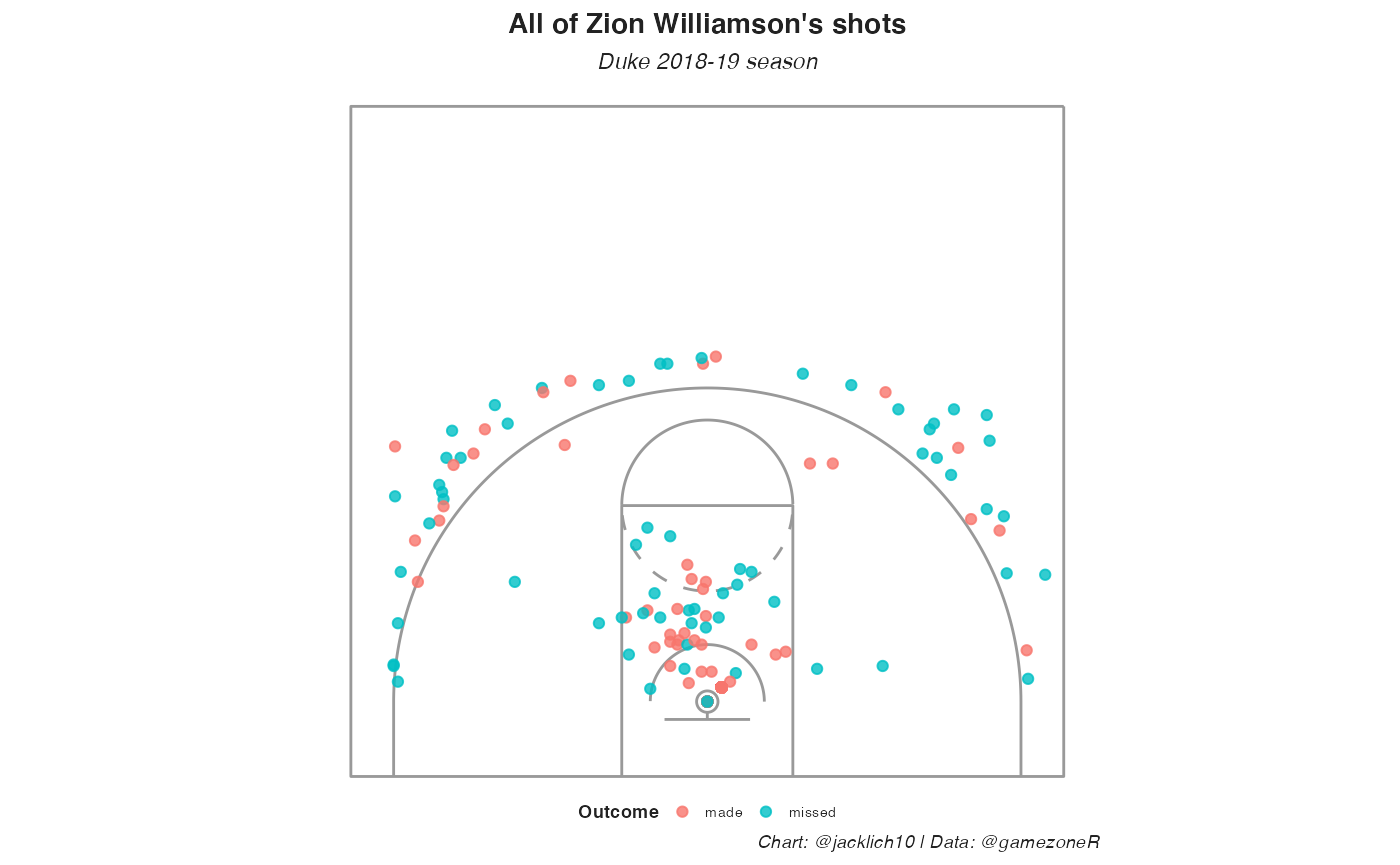
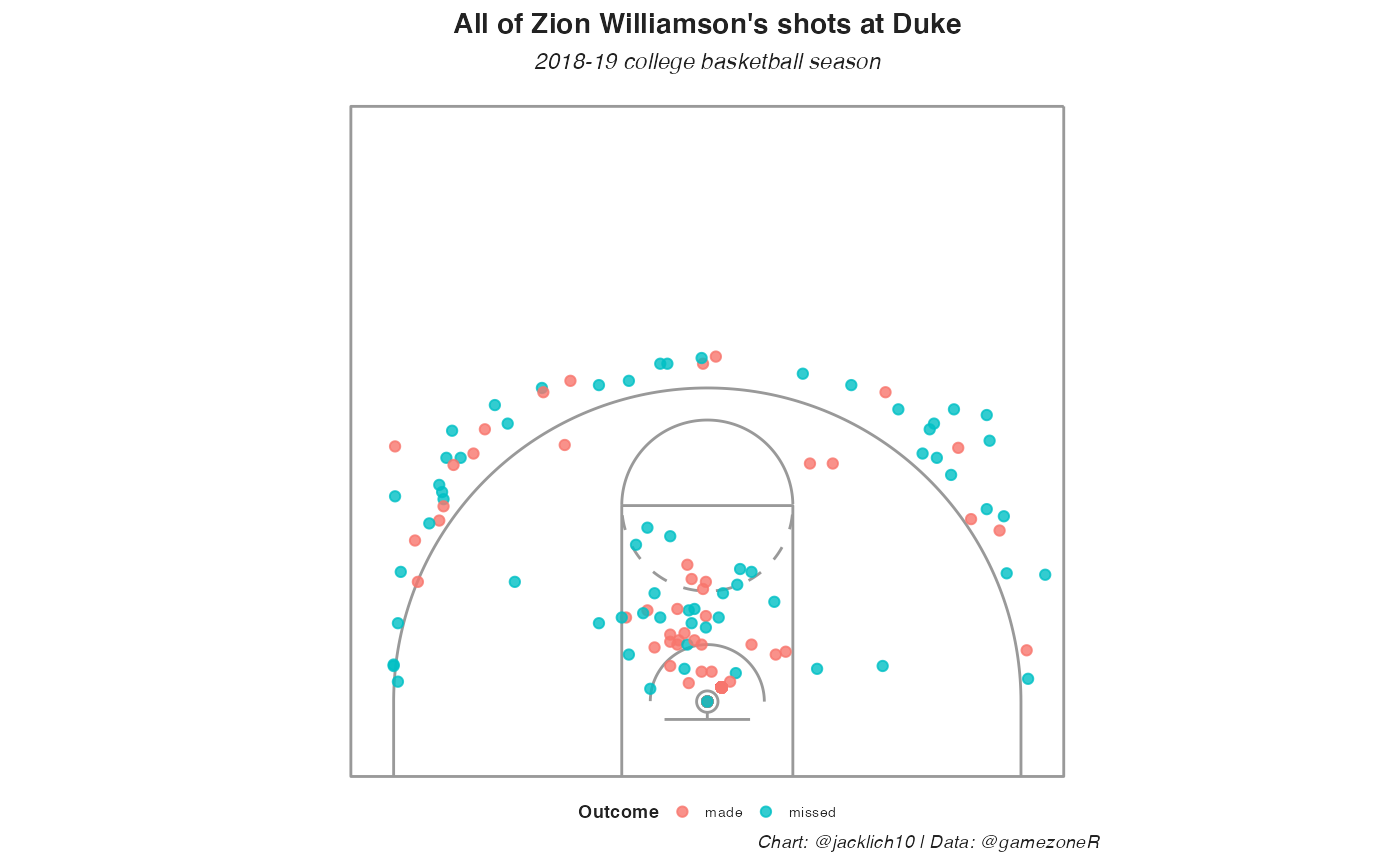
updated vignette

Changed region(s): [[0.3071, 0.0, 0.6757, 0.0936]]

diff --git a/docs/articles/intro-to-gamezoneR.html b/docs/articles/intro-to-gamezoneR.html
@@ -95,104 +95,75 @@
 <a href="#import-libraries" class="anchor"></a>Import libraries</h3>
 <div class="sourceCode" id="cb1"><pre class="downlit sourceCode r">
 <code class="sourceCode R"><span class="kw"><a href="https://rdrr.io/r/base/library.html">library</a></span><span class="op">(</span><span class="va"><a href="https://dplyr.tidyverse.org">dplyr</a></span><span class="op">)</span></code></pre></div>
-<pre><code>## 
-## Attaching package: 'dplyr'</code></pre>
-<pre><code>## The following objects are masked from 'package:stats':
-## 
-##     filter, lag</code></pre>
-<pre><code>## The following objects are masked from 'package:base':
-## 
-##     intersect, setdiff, setequal, union</code></pre>
 </div>
 <div id="scraping-schedules" class="section level3">
 <h3 class="hasAnchor">
 <a href="#scraping-schedules" class="anchor"></a>Scraping schedules</h3>
-<p>There are two functions to scrape schedules: - <code><a href="../reference/get_master_schedule.html">gamezoneR::get_master_schedule()</a></code> - <code><a href="../reference/get_team_schedule.html">gamezoneR::get_team_schedule()</a></code></p>
+<p>There are two functions to scrape schedules:</p>
+<ul>
+<li><code><a href="../reference/get_master_schedule.html">gamezoneR::get_master_schedule()</a></code></li>
+<li><code><a href="../reference/get_team_schedule.html">gamezoneR::get_team_schedule()</a></code></li>
+</ul>
 <p>The <code><a href="../reference/get_master_schedule.html">gamezoneR::get_master_schedule()</a></code> function has a parameter for <code>ranked_games</code>, which is a logical argument specifying whether or not to scrape only the games on that date where at least one team is ranked in the AP top 25 poll. Turning this off will scrape all <em>completed</em> games from the inputted date, regardless of whether a team is ranked or not.</p>
 <p>Please note that specifying <code>ranked_games = T</code> increases the speed of the function because it utilizes the underlying API, while <code>ranked_games = F</code> does not.</p>
-<div class="sourceCode" id="cb5"><pre class="downlit sourceCode r">
+<div class="sourceCode" id="cb2"><pre class="downlit sourceCode r">
 <code class="sourceCode R"><span class="co"># first, the ranked games for a given date</span>
 <span class="va">schedule</span> <span class="op">&lt;-</span> <span class="fu">gamezoneR</span><span class="fu">::</span><span class="fu"><a href="../reference/get_master_schedule.html">get_master_schedule</a></span><span class="op">(</span>date <span class="op">=</span> <span class="st">"2021-03-10"</span>, ranked_games <span class="op">=</span> <span class="cn">T</span><span class="op">)</span></code></pre></div>
 <pre><code>## ℹ Scraping ranked games master schedule for: 2021-03-10</code></pre>
-<div class="sourceCode" id="cb7"><pre class="downlit sourceCode r">
-<code class="sourceCode R"><span class="fu">dplyr</span><span class="fu">::</span><span class="fu"><a href="https://pillar.r-lib.org/reference/glimpse.html">glimpse</a></span><span class="op">(</span><span class="va">schedule</span><span class="op">)</span></code></pre></div>
-<pre><code>## Rows: 1
-## Columns: 19
-## $ date_time       &lt;chr&gt; "9:30 PM ET | Mar 10, 2021"
-## $ game_id         &lt;chr&gt; "2317212"
-## $ tv              &lt;chr&gt; "ESPN"
-## $ home_abbr       &lt;chr&gt; "Okla"
-## $ home_ap_ranking &lt;int&gt; 25
-## $ home_id         &lt;int&gt; 1558
-## $ home_is_winner  &lt;lgl&gt; TRUE
-## $ home_location   &lt;chr&gt; "Oklahoma"
-## $ home_logo_id    &lt;chr&gt; "OklahomaSooners"
-## $ home_name       &lt;chr&gt; "Sooners"
-## $ home_total      &lt;dbl&gt; 79
-## $ home_record     &lt;chr&gt; "15-9"
-## $ away_abbr       &lt;chr&gt; "IaSt"
-## $ away_id         &lt;int&gt; 1450
-## $ away_location   &lt;chr&gt; "Iowa State"
-## $ away_logo_id    &lt;chr&gt; "IowaStateCyclones"
-## $ away_name       &lt;chr&gt; "Cyclones"
-## $ away_total      &lt;dbl&gt; 73
-## $ away_record     &lt;chr&gt; "2-22"</code></pre>
-<div class="sourceCode" id="cb9"><pre class="downlit sourceCode r">
+<div class="sourceCode" id="cb4"><pre class="downlit sourceCode r">
+<code class="sourceCode R"><span class="fu"><a href="https://rdrr.io/r/utils/head.html">head</a></span><span class="op">(</span><span class="va">schedule</span><span class="op">)</span></code></pre></div>
+<pre><code>## # A tibble: 1 x 19
+##   date_time       game_id tv    home_abbr home_ap_ranking home_id home_is_winner
+##   &lt;chr&gt;           &lt;chr&gt;   &lt;chr&gt; &lt;chr&gt;               &lt;int&gt;   &lt;int&gt; &lt;lgl&gt;         
+## 1 9:30 PM ET | M… 2317212 ESPN  Okla                   25    1558 TRUE          
+## # … with 12 more variables: home_location &lt;chr&gt;, home_logo_id &lt;chr&gt;,
+## #   home_name &lt;chr&gt;, home_total &lt;dbl&gt;, home_record &lt;chr&gt;, away_abbr &lt;chr&gt;,
+## #   away_id &lt;int&gt;, away_location &lt;chr&gt;, away_logo_id &lt;chr&gt;, away_name &lt;chr&gt;,
+## #   away_total &lt;dbl&gt;, away_record &lt;chr&gt;</code></pre>
+<div class="sourceCode" id="cb6"><pre class="downlit sourceCode r">
 <code class="sourceCode R"><span class="co"># then, all the games for a given date</span>
 <span class="va">schedule</span> <span class="op">&lt;-</span> <span class="fu">gamezoneR</span><span class="fu">::</span><span class="fu"><a href="../reference/get_master_schedule.html">get_master_schedule</a></span><span class="op">(</span>date <span class="op">=</span> <span class="st">"2021-03-10"</span>, ranked_games <span class="op">=</span> <span class="cn">F</span><span class="op">)</span></code></pre></div>
 <pre><code>## ℹ Scraping master GameZone schedule for: 2021-03-10
 ##   Returning only completed games...</code></pre>
-<div class="sourceCode" id="cb11"><pre class="downlit sourceCode r">
-<code class="sourceCode R"><span class="fu">dplyr</span><span class="fu">::</span><span class="fu"><a href="https://pillar.r-lib.org/reference/glimpse.html">glimpse</a></span><span class="op">(</span><span class="va">schedule</span><span class="op">)</span></code></pre></div>
-<pre><code>## Rows: 33
-## Columns: 9
-## $ season          &lt;chr&gt; "2020-21", "2020-21", "2020-21", "2020-21", "2020-21",…
-## $ game_date       &lt;chr&gt; "2021-03-10", "2021-03-10", "2021-03-10", "2021-03-10"…
-## $ game_id         &lt;dbl&gt; 2316847, 2316777, 2317141, 2316848, 2316778, 2316884, …
-## $ home            &lt;chr&gt; "Sac", "NCSU", "San Jose St.", "NoAri", "Miami (FL)", …
-## $ away            &lt;chr&gt; "NoCol", "Syracuse", "Wyoming", "Portland St.", "Clems…
-## $ home_total      &lt;dbl&gt; 83, 68, 80, 77, 67, 49, 62, 59, 52, 64, 55, 67, 63, 11…
-## $ away_total      &lt;dbl&gt; 90, 89, 111, 66, 64, 68, 74, 64, 80, 69, 52, 63, 80, 1…
-## $ home_ap_ranking &lt;dbl&gt; NA, NA, NA, NA, NA, NA, NA, NA, NA, NA, NA, NA, NA, NA…
-## $ away_ap_ranking &lt;dbl&gt; NA, NA, NA, NA, NA, NA, NA, NA, NA, NA, NA, NA, NA, NA…</code></pre>
+<div class="sourceCode" id="cb8"><pre class="downlit sourceCode r">
+<code class="sourceCode R"><span class="fu"><a href="https://rdrr.io/r/utils/head.html">head</a></span><span class="op">(</span><span class="va">schedule</span><span class="op">)</span></code></pre></div>
+<pre><code>## # A tibble: 6 x 9
+##   season  game_date  game_id home   away   home_total away_total home_ap_ranking
+##   &lt;chr&gt;   &lt;chr&gt;        &lt;dbl&gt; &lt;chr&gt;  &lt;chr&gt;       &lt;dbl&gt;      &lt;dbl&gt;           &lt;dbl&gt;
+## 1 2020-21 2021-03-10 2316847 Sac    NoCol          83         90              NA
+## 2 2020-21 2021-03-10 2316777 NCSU   Syrac…         68         89              NA
+## 3 2020-21 2021-03-10 2317141 San J… Wyomi…         80        111              NA
+## 4 2020-21 2021-03-10 2316848 NoAri  Portl…         77         66              NA
+## 5 2020-21 2021-03-10 2316778 Miami… Clems…         67         64              NA
+## 6 2020-21 2021-03-10 2316884 Marqu… Georg…         49         68              NA
+## # … with 1 more variable: away_ap_ranking &lt;dbl&gt;</code></pre>
 <p>We are able to scrape games by date, but also by team using the <code><a href="../reference/get_team_schedule.html">gamezoneR::get_team_schedule()</a></code> function.</p>
-<div class="sourceCode" id="cb13"><pre class="downlit sourceCode r">
+<div class="sourceCode" id="cb10"><pre class="downlit sourceCode r">
 <code class="sourceCode R"><span class="va">duke_schedule</span> <span class="op">&lt;-</span> <span class="fu">gamezoneR</span><span class="fu">::</span><span class="fu"><a href="../reference/get_team_schedule.html">get_team_schedule</a></span><span class="op">(</span>team <span class="op">=</span> <span class="st">"Duke"</span>, season <span class="op">=</span> <span class="st">"2018-19"</span><span class="op">)</span></code></pre></div>
 <pre><code>## ℹ Scraping 2018-19 season for: Duke</code></pre>
-<div class="sourceCode" id="cb15"><pre class="downlit sourceCode r">
-<code class="sourceCode R"><span class="fu">dplyr</span><span class="fu">::</span><span class="fu"><a href="https://pillar.r-lib.org/reference/glimpse.html">glimpse</a></span><span class="op">(</span><span class="va">duke_schedule</span><span class="op">)</span></code></pre></div>
-<pre><code>## Rows: 34
-## Columns: 23
-## $ season          &lt;chr&gt; "2018-19", "2018-19", "2018-19", "2018-19", "2018-19",…
-## $ start_time      &lt;chr&gt; "9:49 PM ET", "1:00 PM ET", "7:00 PM ET", "6:09 PM ET"…
-## $ game_date       &lt;date&gt; 2018-11-06, 2018-11-11, 2018-11-14, 2018-11-19, 2018-…
-## $ game_id         &lt;dbl&gt; 2083190, 2087019, 2087022, 2082919, 2082916, 2082915, …
-## $ tv              &lt;chr&gt; "ESPN", "ESPN", "ACCN", "ESP2", "ESPN", "ESPN", "ESPN"…
-## $ home            &lt;chr&gt; "Kentucky", "Duke", "Duke", "San Diego State", "Duke",…
-## $ away            &lt;chr&gt; "Duke", "Army West Point", "Eastern Michigan", "Duke",…
-## $ home_abbr       &lt;chr&gt; "Kty", "Duke", "Duke", "SDSU", "Duke", "Gonz", "Duke",…
-## $ home_ap_ranking &lt;int&gt; 2, 4, 1, NA, 1, 3, 3, 3, 3, 3, 2, 2, 1, NA, 13, 1, 1, …
-## $ home_id         &lt;int&gt; 1459, 1388, 1388, 1592, 1388, 1423, 1388, 1388, 1388, …
-## $ home_logo_id    &lt;chr&gt; "KentuckyWildcats", "DukeBlueDevils", "DukeBlueDevils"…
-## $ home_name       &lt;chr&gt; "Wildcats", "Blue Devils", "Blue Devils", "Aztecs", "B…
-## $ home_total      &lt;dbl&gt; 84, 94, 84, 64, 78, 89, 90, 113, 84, 91, 101, 69, 87, …
-## $ home_is_winner  &lt;lgl&gt; NA, TRUE, TRUE, NA, TRUE, TRUE, TRUE, TRUE, TRUE, TRUE…
-## $ home_record     &lt;chr&gt; "0-1", "2-0", "3-0", "2-1", "5-0", "6-0", "6-1", "7-1"…
-## $ away_abbr       &lt;chr&gt; "Duke", "Army", "EastMi", "Duke", "Auburn", "Duke", "I…
-## $ away_ap_ranking &lt;int&gt; 4, NA, NA, 1, 8, 1, NA, NA, NA, NA, NA, 12, NA, 1, 1, …
-## $ away_id         &lt;int&gt; 1388, 1298, 1394, 1388, 1299, 1388, 1446, 1629, 1430, …
-## $ away_is_winner  &lt;lgl&gt; TRUE, NA, NA, TRUE, NA, NA, NA, NA, NA, NA, NA, NA, NA…
-## $ away_logo_id    &lt;chr&gt; "DukeBlueDevils", "ArmyWestPointBlackKnights", "Easter…
-## $ away_name       &lt;chr&gt; "Blue Devils", "Black Knights", "Eagles", "Blue Devils…
-## $ away_total      &lt;dbl&gt; 118, 72, 46, 90, 72, 87, 69, 49, 54, 58, 50, 58, 68, 8…
-## $ away_record     &lt;chr&gt; "1-0", "1-1", "3-1", "4-0", "4-1", "5-1", "5-2", "1-8"…</code></pre>
+<div class="sourceCode" id="cb12"><pre class="downlit sourceCode r">
+<code class="sourceCode R"><span class="fu"><a href="https://rdrr.io/r/utils/head.html">head</a></span><span class="op">(</span><span class="va">duke_schedule</span><span class="op">)</span></code></pre></div>
+<pre><code>## # A tibble: 6 x 23
+##   season  start_time game_date  game_id tv    home        away         home_abbr
+##   &lt;chr&gt;   &lt;chr&gt;      &lt;date&gt;       &lt;dbl&gt; &lt;chr&gt; &lt;chr&gt;       &lt;chr&gt;        &lt;chr&gt;    
+## 1 2018-19 9:49 PM ET 2018-11-06 2083190 ESPN  Kentucky    Duke         Kty      
+## 2 2018-19 1:00 PM ET 2018-11-11 2087019 ESPN  Duke        Army West P… Duke     
+## 3 2018-19 7:00 PM ET 2018-11-14 2087022 ACCN  Duke        Eastern Mic… Duke     
+## 4 2018-19 6:09 PM ET 2018-11-19 2082919 ESP2  San Diego … Duke         SDSU     
+## 5 2018-19 8:00 PM ET 2018-11-20 2082916 ESPN  Duke        Auburn       Duke     
+## 6 2018-19 5:00 PM ET 2018-11-21 2082915 ESPN  Gonzaga     Duke         Gonz     
+## # … with 15 more variables: home_ap_ranking &lt;int&gt;, home_id &lt;int&gt;,
+## #   home_logo_id &lt;chr&gt;, home_name &lt;chr&gt;, home_total &lt;dbl&gt;,
+## #   home_is_winner &lt;lgl&gt;, home_record &lt;chr&gt;, away_abbr &lt;chr&gt;,
+## #   away_ap_ranking &lt;int&gt;, away_id &lt;int&gt;, away_is_winner &lt;lgl&gt;,
+## #   away_logo_id &lt;chr&gt;, away_name &lt;chr&gt;, away_total &lt;dbl&gt;, away_record &lt;chr&gt;</code></pre>
 </div>
 <div id="scraping-the-play-by-play" class="section level3">
 <h3 class="hasAnchor">
 <a href="#scraping-the-play-by-play" class="anchor"></a>Scraping the play-by-play</h3>
 <p>Now that we have a schedule to work with, we can use the <code><a href="../reference/game_zone_cbb_pbp.html">gamezoneR::game_zone_cbb_pbp()</a></code> function to scrape play-by-play data for individual gameIds. The argument <code>sub_parse</code> is a logical parameter specifying whether or not to attempt to parse substitution and lineup data. If TRUE, the play-by-play will be appended to include columns <code>home_1</code> through <code>away_5</code>, specifying the names of the 10 players on the floor.</p>
 <p>Please note that GameZone does not track all substitutions. As a result, a new column, <code>sub_error</code> will reside in the appended play-by-play data. I have not come across many games with no such errors</p>
-<div class="sourceCode" id="cb17"><pre class="downlit sourceCode r">
+<div class="sourceCode" id="cb14"><pre class="downlit sourceCode r">
 <code class="sourceCode R"><span class="va">pbp</span> <span class="op">&lt;-</span> <span class="fu">gamezoneR</span><span class="fu">::</span><span class="fu"><a href="../reference/game_zone_cbb_pbp.html">game_zone_cbb_pbp</a></span><span class="op">(</span><span class="va">schedule</span><span class="op">$</span><span class="va">game_id</span><span class="op">[</span><span class="fl">2</span><span class="op">]</span>,
                                     sub_parse <span class="op">=</span> <span class="cn">T</span><span class="op">)</span></code></pre></div>
 <pre><code>## ● Scraping GameID: 2316777</code></pre>
@@ -200,7 +171,7 @@
 ##   Note that GameZone does not track all substitutions</code></pre>
 <pre><code>## ✓ Completed GameID: 2316777
 ##   North Carolina State @ Syracuse</code></pre>
-<div class="sourceCode" id="cb21"><pre class="downlit sourceCode r">
+<div class="sourceCode" id="cb18"><pre class="downlit sourceCode r">
 <code class="sourceCode R"><span class="va">pbp</span> <span class="op">%&gt;%</span> 
   <span class="fu">dplyr</span><span class="fu">::</span><span class="fu"><a href="https://dplyr.tidyverse.org/reference/count.html">count</a></span><span class="op">(</span><span class="va">sub_error</span><span class="op">)</span></code></pre></div>
 <pre><code>## # A tibble: 3 x 2
@@ -209,53 +180,30 @@
 ## 1 Player leaving not previously in game     2
 ## 2 Sub already in game                       9
 ## 3 &lt;NA&gt;                                    307</code></pre>
-<div class="sourceCode" id="cb23"><pre class="downlit sourceCode r">
-<code class="sourceCode R"><span class="fu">dplyr</span><span class="fu">::</span><span class="fu"><a href="https://pillar.r-lib.org/reference/glimpse.html">glimpse</a></span><span class="op">(</span><span class="va">pbp</span><span class="op">)</span></code></pre></div>
-<pre><code>## Rows: 318
-## Columns: 37
-## $ season              &lt;chr&gt; "2020-21", "2020-21", "2020-21", "2020-21", "2020-…
-## $ date                &lt;date&gt; 2021-03-10, 2021-03-10, 2021-03-10, 2021-03-10, 2…
-## $ game_id             &lt;dbl&gt; 2316777, 2316777, 2316777, 2316777, 2316777, 23167…
-## $ play_id             &lt;int&gt; 1, 1, 1, 1, 1, 1, 1, 1, 1, 1, 2, 3, 4, 5, 6, 7, 8,…
-## $ half                &lt;int&gt; 1, 1, 1, 1, 1, 1, 1, 1, 1, 1, 1, 1, 1, 1, 1, 1, 1,…
-## $ home                &lt;chr&gt; "Syracuse", "Syracuse", "Syracuse", "Syracuse", "S…
-## $ away                &lt;chr&gt; "North Carolina State", "North Carolina State", "N…
-## $ home_score          &lt;dbl&gt; 0, 0, 0, 0, 0, 0, 0, 0, 0, 0, 0, 0, 2, 2, 2, 2, 2,…
-## $ away_score          &lt;dbl&gt; 0, 0, 0, 0, 0, 0, 0, 0, 0, 0, 0, 2, 2, 2, 2, 2, 2,…
-## $ score_diff          &lt;dbl&gt; 0, 0, 0, 0, 0, 0, 0, 0, 0, 0, 0, -2, 0, 0, 0, 0, 0…
-## $ team_id             &lt;dbl&gt; 1633, 1538, 1633, 1538, 1538, 1633, 1538, 1633, 15…
-## $ event_team          &lt;chr&gt; "Syracuse", "North Carolina State", "Syracuse", "N…
-## $ game_secs_remaining &lt;dbl&gt; NA, NA, NA, NA, NA, NA, NA, NA, NA, NA, 2400, 2379…
-## $ half_secs_remaining &lt;dbl&gt; NA, NA, NA, NA, NA, NA, NA, NA, NA, NA, 1200, 1179…
-## $ play_length         &lt;dbl&gt; NA, NA, NA, NA, NA, NA, NA, NA, NA, NA, NA, 21, 21…
-## $ desc                &lt;chr&gt; "Starting Lineup - Buddy Boeheim", "Starting Lineu…
-## $ shot_outcome        &lt;chr&gt; NA, NA, NA, NA, NA, NA, NA, NA, NA, NA, NA, "made"…
-## $ free_throw          &lt;lgl&gt; FALSE, FALSE, FALSE, FALSE, FALSE, FALSE, FALSE, F…
-## $ three_pt            &lt;lgl&gt; FALSE, FALSE, FALSE, FALSE, FALSE, FALSE, FALSE, F…
-## $ shot_desc           &lt;chr&gt; NA, NA, NA, NA, NA, NA, NA, NA, NA, NA, NA, "Jump …
-## $ loc_x               &lt;dbl&gt; NA, NA, NA, NA, NA, NA, NA, NA, NA, NA, NA, 11.0, …
-## $ loc_y               &lt;dbl&gt; NA, NA, NA, NA, NA, NA, NA, NA, NA, NA, NA, 12.25,…
-## $ shooter_id          &lt;int&gt; NA, NA, NA, NA, NA, NA, NA, NA, NA, NA, NA, 113228…
-## $ shooter             &lt;chr&gt; NA, NA, NA, NA, NA, NA, NA, NA, NA, NA, NA, "Manny…
-## $ assist              &lt;chr&gt; NA, NA, NA, NA, NA, NA, NA, NA, NA, NA, NA, "Dereo…
-## $ substitution        &lt;dbl&gt; 1, 1, 1, 1, 1, 1, 1, 1, 1, 1, 0, 0, 0, 0, 0, 0, 0,…
-## $ sub_error           &lt;chr&gt; NA, NA, NA, NA, NA, NA, NA, NA, NA, NA, NA, NA, NA…
-## $ home_1              &lt;chr&gt; "Buddy Boeheim", "Buddy Boeheim", "Buddy Boeheim",…
-## $ home_2              &lt;chr&gt; "Quincy Guerrier", "Quincy Guerrier", "Quincy Guer…
-## $ home_3              &lt;chr&gt; "Alan Griffin", "Alan Griffin", "Alan Griffin", "A…
-## $ home_4              &lt;chr&gt; "Joseph Girard III", "Joseph Girard III", "Joseph …
-## $ home_5              &lt;chr&gt; "Marek Dolezaj", "Marek Dolezaj", "Marek Dolezaj",…
-## $ away_1              &lt;chr&gt; "Cam Hayes", "Cam Hayes", "Cam Hayes", "Cam Hayes"…
-## $ away_2              &lt;chr&gt; "Dereon Seabron", "Dereon Seabron", "Dereon Seabro…
-## $ away_3              &lt;chr&gt; "D.J. Funderburk", "D.J. Funderburk", "D.J. Funder…
-## $ away_4              &lt;chr&gt; "Manny Bates", "Manny Bates", "Manny Bates", "Mann…
-## $ away_5              &lt;chr&gt; "Jericole Hellems", "Jericole Hellems", "Jericole …</code></pre>
+<div class="sourceCode" id="cb20"><pre class="downlit sourceCode r">
+<code class="sourceCode R"><span class="fu"><a href="https://rdrr.io/r/utils/head.html">head</a></span><span class="op">(</span><span class="va">pbp</span><span class="op">)</span></code></pre></div>
+<pre><code>## # A tibble: 6 x 37
+##   season  date       game_id play_id  half home   away     home_score away_score
+##   &lt;chr&gt;   &lt;date&gt;       &lt;dbl&gt;   &lt;int&gt; &lt;int&gt; &lt;chr&gt;  &lt;chr&gt;         &lt;dbl&gt;      &lt;dbl&gt;
+## 1 2020-21 2021-03-10 2316777       1     1 Syrac… North C…          0          0
+## 2 2020-21 2021-03-10 2316777       1     1 Syrac… North C…          0          0
+## 3 2020-21 2021-03-10 2316777       1     1 Syrac… North C…          0          0
+## 4 2020-21 2021-03-10 2316777       1     1 Syrac… North C…          0          0
+## 5 2020-21 2021-03-10 2316777       1     1 Syrac… North C…          0          0
+## 6 2020-21 2021-03-10 2316777       1     1 Syrac… North C…          0          0
+## # … with 28 more variables: score_diff &lt;dbl&gt;, team_id &lt;dbl&gt;, event_team &lt;chr&gt;,
+## #   game_secs_remaining &lt;dbl&gt;, half_secs_remaining &lt;dbl&gt;, play_length &lt;dbl&gt;,
+## #   desc &lt;chr&gt;, shot_outcome &lt;chr&gt;, free_throw &lt;lgl&gt;, three_pt &lt;lgl&gt;,
+## #   shot_desc &lt;chr&gt;, loc_x &lt;dbl&gt;, loc_y &lt;dbl&gt;, shooter_id &lt;int&gt;, shooter &lt;chr&gt;,
+## #   assist &lt;chr&gt;, substitution &lt;dbl&gt;, sub_error &lt;chr&gt;, home_1 &lt;chr&gt;,
+## #   home_2 &lt;chr&gt;, home_3 &lt;chr&gt;, home_4 &lt;chr&gt;, home_5 &lt;chr&gt;, away_1 &lt;chr&gt;,
+## #   away_2 &lt;chr&gt;, away_3 &lt;chr&gt;, away_4 &lt;chr&gt;, away_5 &lt;chr&gt;</code></pre>
 <p>Now, let’s scrape all of Duke’s games from the Zion Williamson 2018-19 season using <code><a href="https://purrr.tidyverse.org/reference/map.html">purrr::map_df()</a></code>.</p>
-<div class="sourceCode" id="cb25"><pre class="downlit sourceCode r">
+<div class="sourceCode" id="cb22"><pre class="downlit sourceCode r">
 <code class="sourceCode R"><span class="va">duke_pbp</span> <span class="op">&lt;-</span> <span class="fu">purrr</span><span class="fu">::</span><span class="fu"><a href="https://purrr.tidyverse.org/reference/map.html">map_df</a></span><span class="op">(</span><span class="va">duke_schedule</span><span class="op">$</span><span class="va">game_id</span>, 
                           <span class="fu">gamezoneR</span><span class="fu">::</span><span class="va"><a href="../reference/game_zone_cbb_pbp.html">game_zone_cbb_pbp</a></span>, sub_parse <span class="op">=</span> <span class="cn">F</span><span class="op">)</span></code></pre></div>
 <p>Let’s plot some shot charts. We will use the built in <code><a href="../reference/base_court.html">gamezoneR::base_court</a></code> ggplot court.</p>
-<div class="sourceCode" id="cb26"><pre class="downlit sourceCode r">
+<div class="sourceCode" id="cb23"><pre class="downlit sourceCode r">
 <code class="sourceCode R"><span class="va">duke_shots</span> <span class="op">&lt;-</span> <span class="va">duke_pbp</span> <span class="op">%&gt;%</span> 
   <span class="fu">dplyr</span><span class="fu">::</span><span class="fu"><a href="https://dplyr.tidyverse.org/reference/filter.html">filter</a></span><span class="op">(</span><span class="op">!</span><span class="fu"><a href="https://rdrr.io/r/base/NA.html">is.na</a></span><span class="op">(</span><span class="va">loc_x</span><span class="op">)</span>,
                 <span class="va">shooter</span> <span class="op">==</span> <span class="st">"Zion Williamson"</span><span class="op">)</span>
@@ -280,8 +228,8 @@
                  legend.position <span class="op">=</span> <span class="st">'bottom'</span>,
                  legend.box.margin <span class="op">=</span> <span class="fu">ggplot2</span><span class="fu">::</span><span class="fu"><a href="https://ggplot2.tidyverse.org/reference/element.html">margin</a></span><span class="op">(</span><span class="op">-</span><span class="fl">35</span>, <span class="fl">0</span>, <span class="fl">0</span>, <span class="fl">0</span><span class="op">)</span>,
                  plot.margin <span class="op">=</span> <span class="fu">ggplot2</span><span class="fu">::</span><span class="fu"><a href="https://ggplot2.tidyverse.org/reference/element.html">margin</a></span><span class="op">(</span><span class="fl">5</span>, <span class="fl">0</span>, <span class="fl">5</span>, <span class="fl">0</span><span class="op">)</span><span class="op">)</span> <span class="op">+</span>
-  <span class="fu">ggplot2</span><span class="fu">::</span><span class="fu"><a href="https://ggplot2.tidyverse.org/reference/labs.html">labs</a></span><span class="op">(</span>title <span class="op">=</span> <span class="st">"All of Zion Williamson's shots"</span>,
-                subtitle <span class="op">=</span> <span class="st">"Duke 2018-19 season"</span>,
+  <span class="fu">ggplot2</span><span class="fu">::</span><span class="fu"><a href="https://ggplot2.tidyverse.org/reference/labs.html">labs</a></span><span class="op">(</span>title <span class="op">=</span> <span class="st">"All of Zion Williamson's shots at Duke"</span>,
+                subtitle <span class="op">=</span> <span class="st">"2018-19 college basketball season"</span>,
                 color <span class="op">=</span> <span class="st">"Outcome"</span>,
                 caption <span class="op">=</span> <span class="st">"Chart: @jacklich10 | Data: @gamezoneR"</span><span class="op">)</span></code></pre></div>
 <p><img src="intro-to-gamezoneR_files/figure-html/plot_zion-1.png" width="700"></p>
